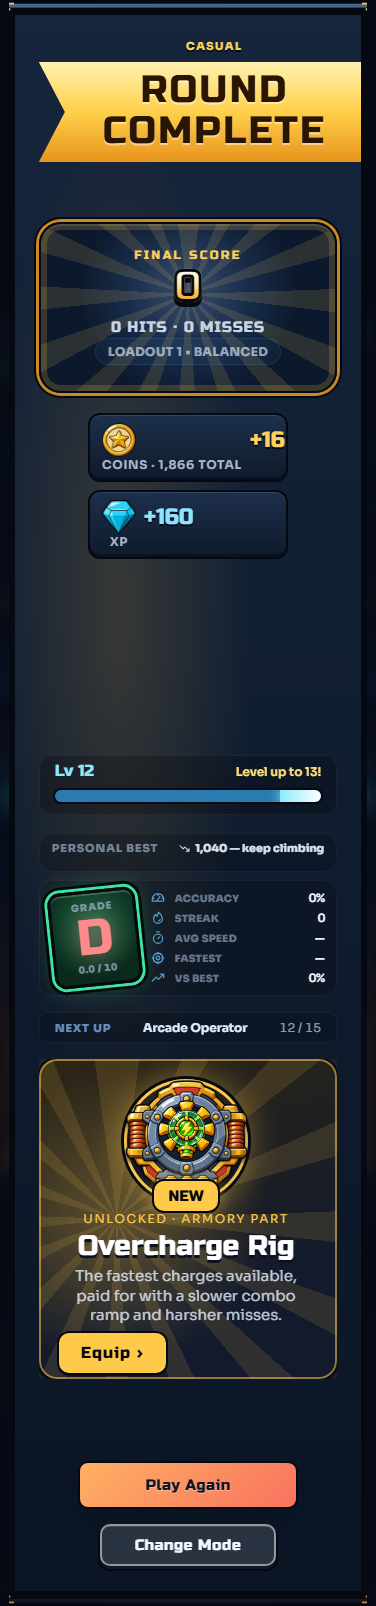
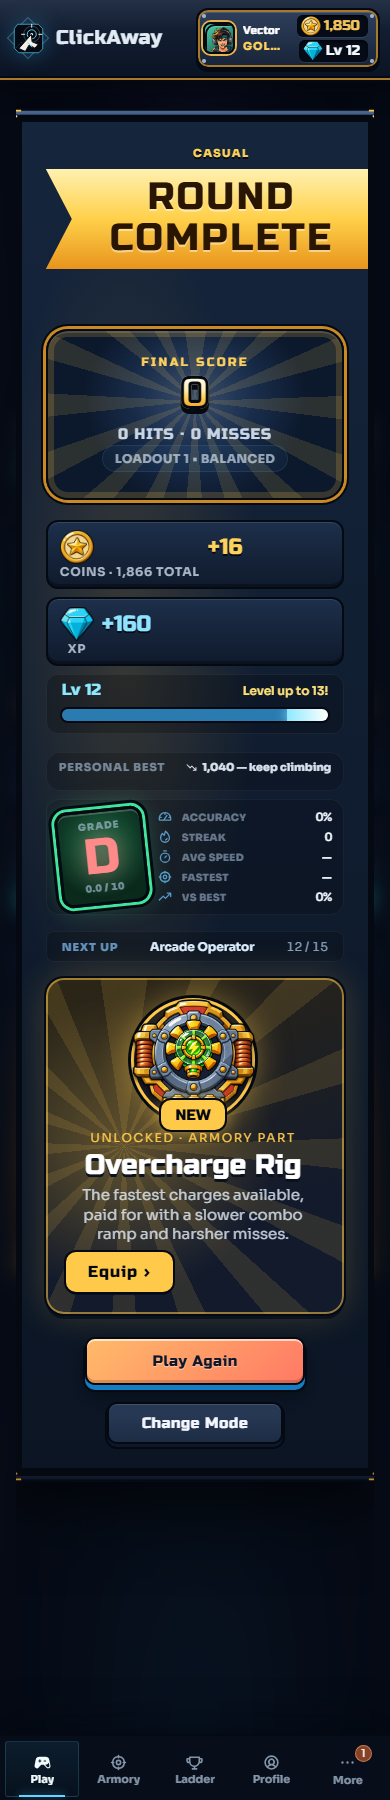
1.) Problem: Reserved server reward slots leave empty gaps and nested scrolling on the Round Complete card. 2.) Solution: Collapse absent details below stable full-width rewards and recapture the results at desktop and phone sizes.

diff --git a/tests/e2e/zz-round-complete.spec.js b/tests/e2e/zz-round-complete.spec.js
@@ -4,7 +4,7 @@ import { prepareDeterministicPage } from "./fixtures.js"
 for (const width of [1440, 390]) {
   test(`round complete pending rewards and stable save at ${width}px`, async ({ page }) => {
     test.setTimeout(120_000)
-    await page.setViewportSize({ width, height: width === 390 ? 2400 : 1100 })
+    await page.setViewportSize({ width, height: width === 390 ? 1800 : 900 })
     await prepareDeterministicPage(page)
     await page.clock.install()
     let release
@@ -23,16 +23,18 @@ for (const width of [1440, 390]) {
     await expect(page.locator(".gameOverReward.isXp")).toContainText("pending")
     await expect(page.locator(".gameOverXpTally")).toBeVisible()
     await page.waitForTimeout(600)
-    const before = await page.locator(".gameOverActions").boundingBox()
+    const before = await page.locator(".gameOverReward.isXp").boundingBox()
     await page.locator(".gameOverRewards").evaluate((element) => { element.dataset.original = "yes" })
     release()
     await expect(page.locator(".gameOverReward.isCoins")).toContainText("+16")
     await expect(page.locator(".gameOverReward.isXp")).toContainText("+160")
     await expect(page.locator(".gameOverRewards")).toHaveAttribute("data-original", "yes")
-    const after = await page.locator(".gameOverActions").boundingBox()
+    const after = await page.locator(".gameOverReward.isXp").boundingBox()
     expect(after.y).toBeCloseTo(before.y, 0)
     await page.evaluate(() => document.fonts.ready)
-    await page.locator(".gameOverCard").screenshot({
+    await expect(page.locator(".gameOverCard")).toBeVisible()
+    await page.locator(".gameOverCard").scrollIntoViewIfNeeded()
+    await page.screenshot({
       path: `docs/feature-improvement/shots/round-complete/after-card-${width === 390 ? "phone" : "desktop"}.png`,
       animations: "disabled",
     })

diff --git a/src/styles/game-play.css b/src/styles/game-play.css
@@ -1806,14 +1806,23 @@
 .gameOverNowAffordableLink:hover { color: #ffffff; }
 .gameOverNowAffordableLink:focus-visible { outline: 2px solid #ffd76a; outline-offset: 3px; border-radius: 4px; }
 
-/* Server details occupy a stable slot while the round saves. */
-.gameOverServerRewards { flex: 0 0 100% !important; height: 180px; overflow: auto; display: flex; flex-wrap: wrap; gap: 8px; align-content: start; }
-.gameOverSpotlight, .gameOverSpotlight:empty { display: grid; height: 240px; overflow: auto; }
-.gameOverNextGoal { height: 42px; overflow: auto; }
+/* Server details grow below the immediate rewards without empty reserved slots. */
+.gameOverServerRewards { flex: 0 0 100% !important; display: flex; flex-wrap: wrap; gap: 8px; align-content: start; }
+.gameOverServerRewards:empty, .gameOverSpotlight:empty { display: none; }
+.gameOverStatusSlot { min-height: 40px; }
 .gameOverHeader { min-height: 112px; }
-@media (max-width: 600px) { .gameOverSpotlight, .gameOverSpotlight:empty { height: 320px; } }
-
-.gameOverStatusSlot { height: 40px; overflow: auto; }
-
 .gameOverRewards > .gameOverReward { width: 200px; min-height: 68px; box-sizing: border-box; }
-.gameOverRewards > .gameOverXpTally { height: 60px; box-sizing: border-box; }
+.gameOverRewards > .gameOverXpTally { min-height: 60px; box-sizing: border-box; }
+@media (max-width: 600px) {
+    .gameOverRewards > .gameOverReward { width: 100%; flex-basis: 100%; }
+}
+
+.gameOverlay:has(> .gameOverCard) { align-items: start; }
+
+.gameOverServerRewards { order: 10; }
+@media (min-width: 1000px) {
+    .gameOverCardWithDifficulty {
+        grid-template-rows: auto auto auto auto auto;
+        grid-template-areas: "header header" "score body" "rewards rewards" "spot spot" "actions actions";
+    }
+}

diff --git a/src/features/game/components/roundOverlays/GameOverOverlay.jsx b/src/features/game/components/roundOverlays/GameOverOverlay.jsx
@@ -458,7 +458,7 @@ export function GameOverOverlay({
               prefersReducedMotion={prefersReducedMotion}
             />
           ) : null}
-          <div className="gameOverServerRewards" aria-hidden={!isRoundSaved} style={{ visibility: isRoundSaved ? "visible" : "hidden" }}>
+          {isRoundSaved ? <div className="gameOverServerRewards">
           {allowsRankProgression && placementLabel ? (
             <span className="gameOverReward isRank isPlacement"><CrestIcon tone={rankProgress?.toneId || "unranked"} size={34} /><strong>{formatNumber(roundRankDelta)}</strong><small>Placement score · {placementLabel}</small></span>
           ) : null}
@@ -492,7 +492,7 @@ export function GameOverOverlay({
               </Link>
             </p>
           ) : null}
-          </div>
+          </div> : null}
         </MotionDiv>
       ) : null}
 
@@ -552,7 +552,7 @@ export function GameOverOverlay({
         ) : null}
       </div>
 
-      {showRoundRewards && allowsLevelProgression ? (
+      {isRoundSaved && allowsLevelProgression ? (
         <MotionDiv
           className="gameOverSpotlight"
           aria-hidden={!isRoundSaved}
@@ -576,7 +576,7 @@ export function GameOverOverlay({
         animate={{ opacity: 1, y: 0 }}
         transition={prefersReducedMotion ? { duration: 0 } : { delay: 0.15, duration: 0.24 }}
       >
-        {showRoundRewards && !isPracticeMode ? (
+        {isRoundSaved && !isPracticeMode && nextRoundGoal?.text ? (
           <p className="gameOverNextGoal" data-goal={nextRoundGoal?.kind}>{nextRoundGoal?.text || "\u00a0"}</p>
         ) : null}
         <button
